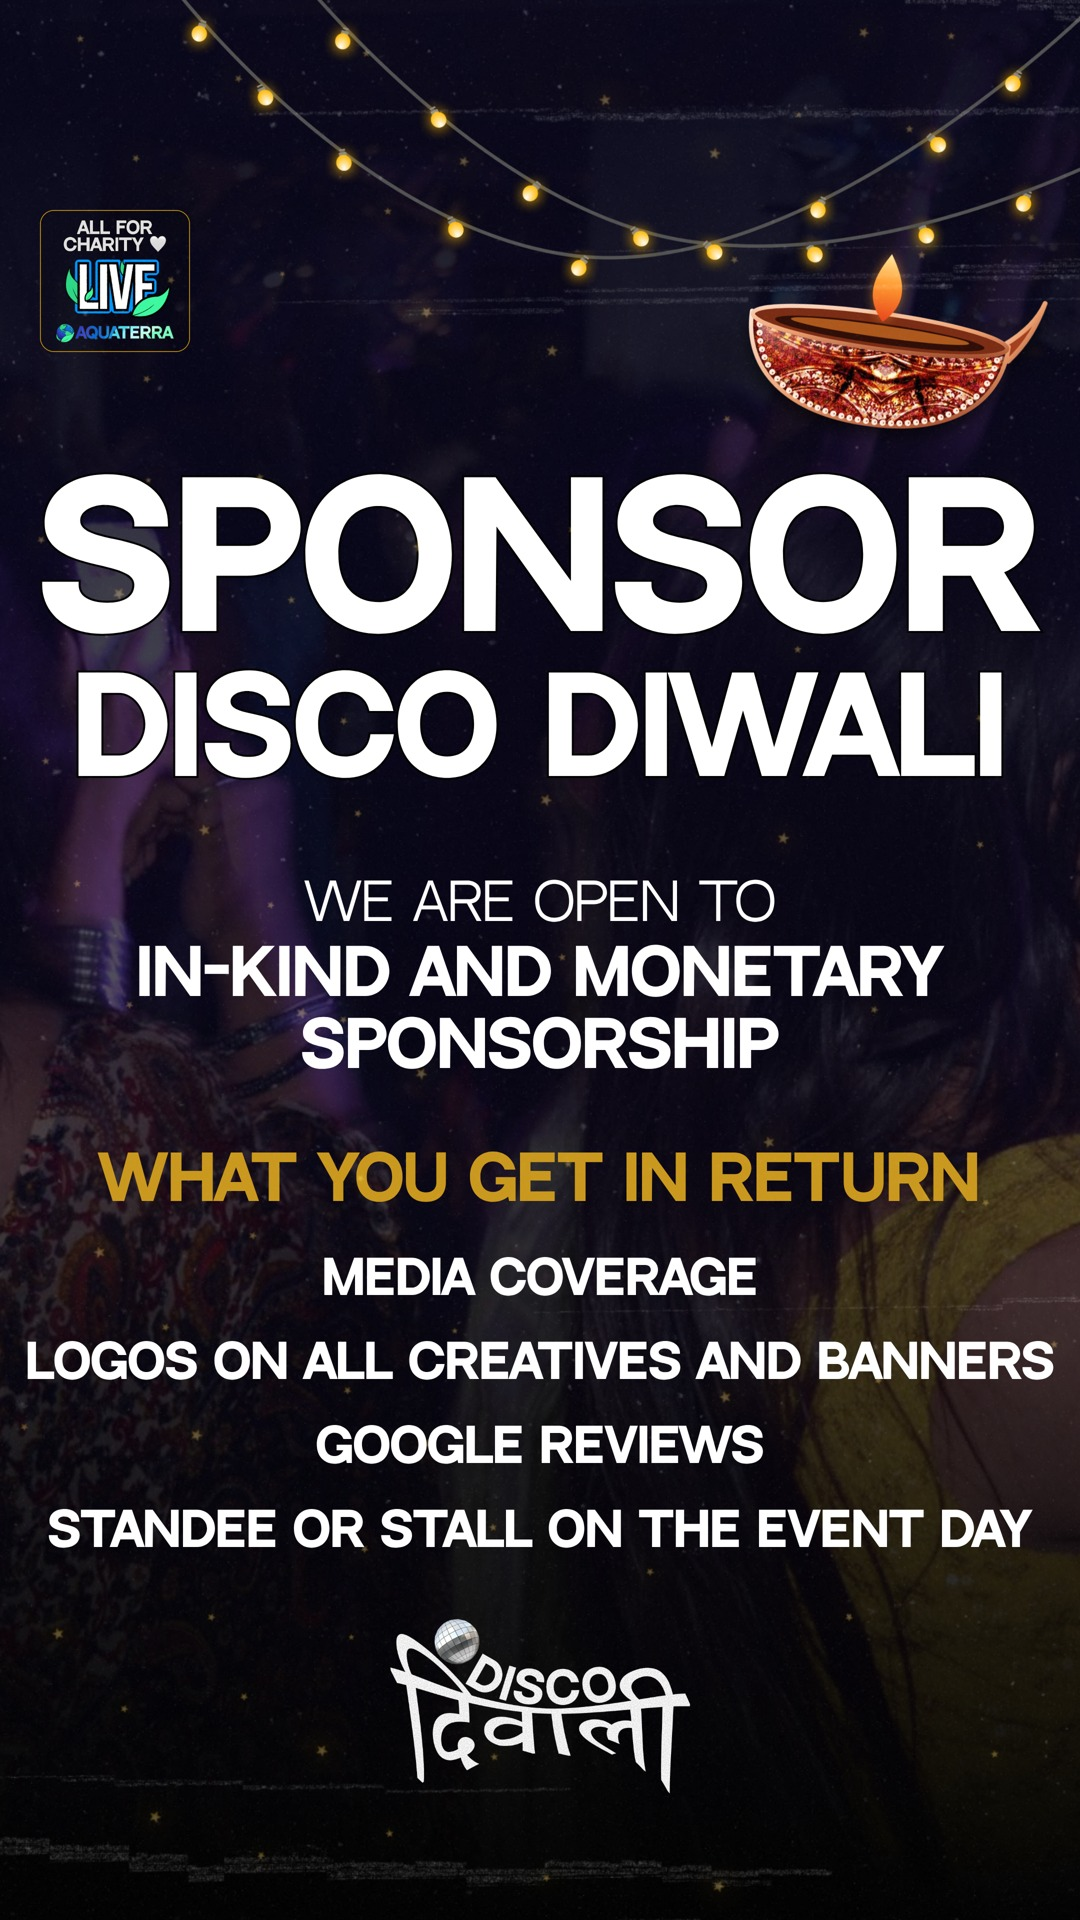
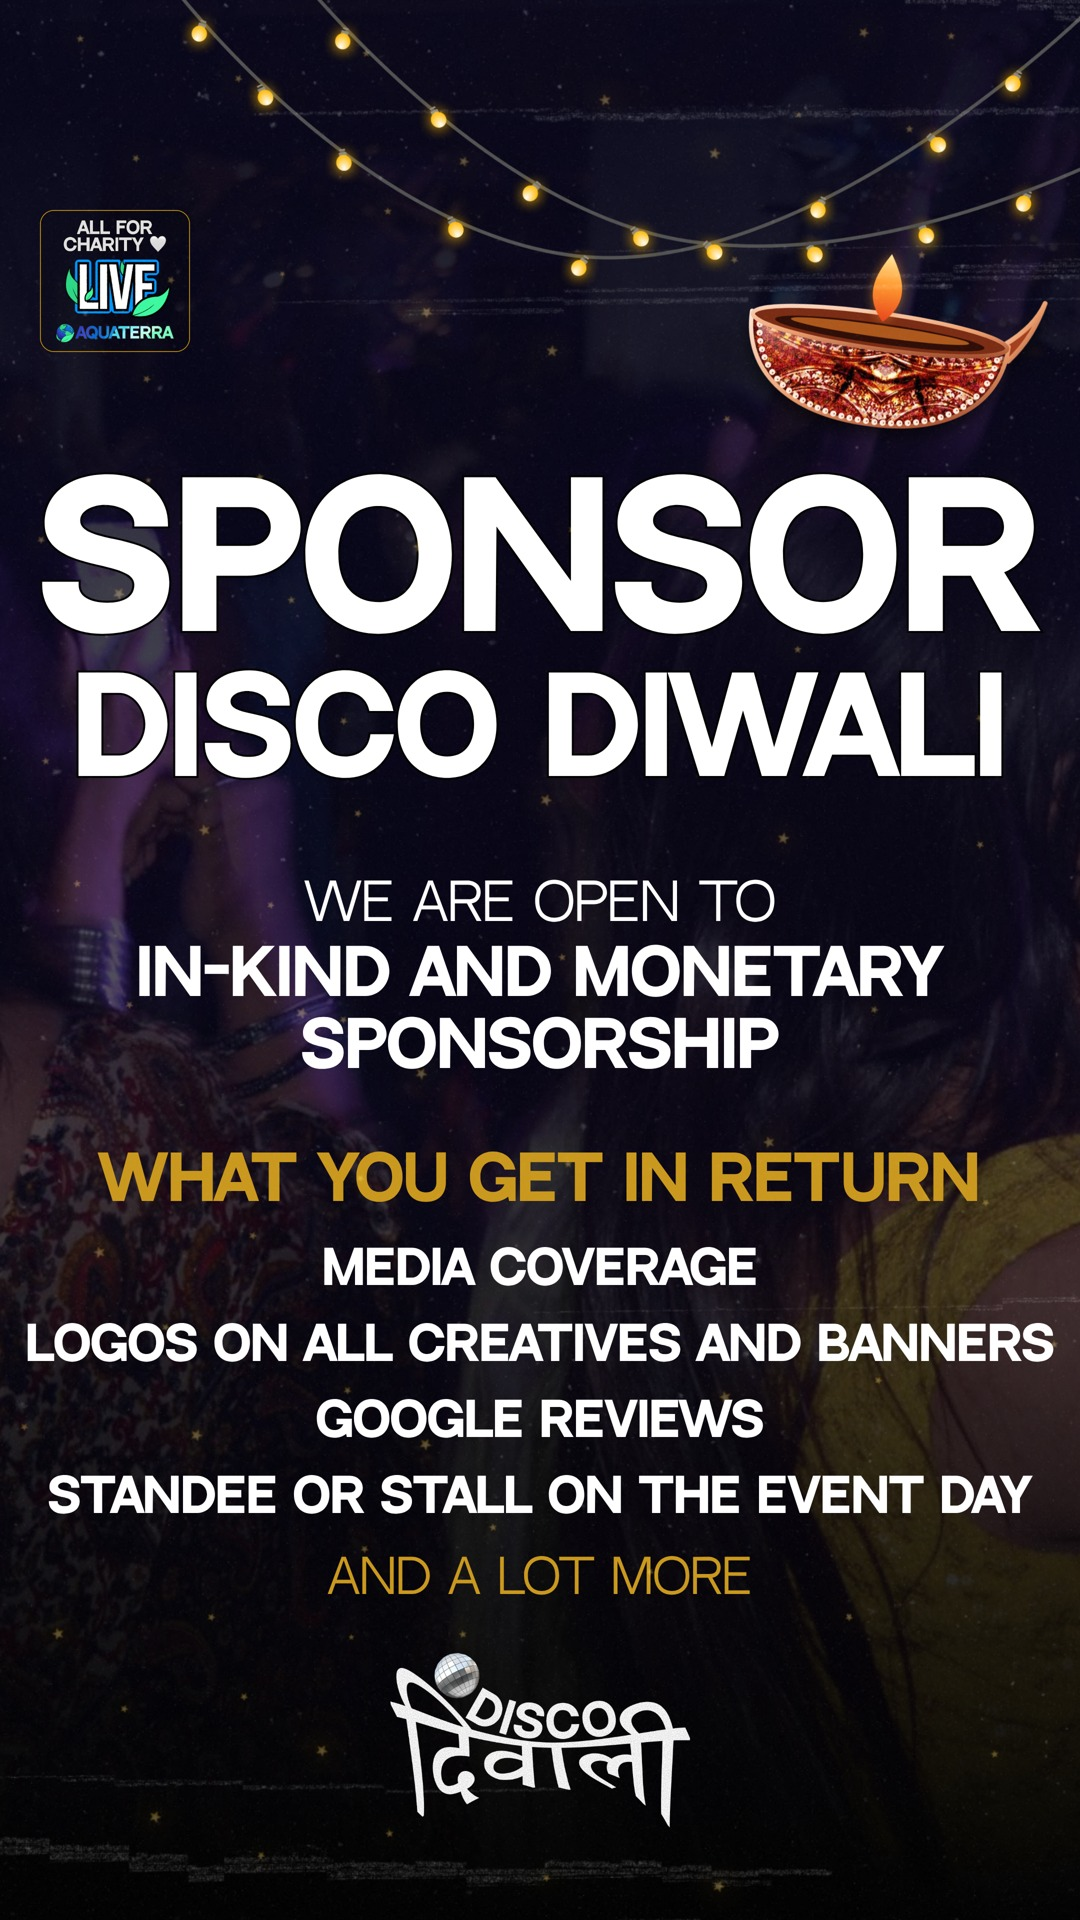
Sponsor invite story: add 'and a lot more' to the deliverables
Claude-Session: https://claude.ai/code/session_011Tdiin6aNXQLggVhcwaFdk

Changed region(s): [[0.0, 0.625, 0.9778, 0.9688]]

diff --git a/scratchpad/dd_sponsor_invite.py b/scratchpad/dd_sponsor_invite.py
@@ -24,8 +24,9 @@ def story():
     line("o3", "sponsorship", 1016, 62, 700, 66, stroke=False)
     line("lab", "What you get in return", 1150, 60, 700, 64, stroke=False, color=dd.GOLD)
     for i, t in enumerate(("Media coverage", "Logos on all creatives and banners", "Google reviews", "Standee or stall on the event day")):
-        line(f"g{i}", t, 1256 + i * 84, 46, 700, 50, stroke=False)
-    vw = 300; t = vw / 1717; vh = round(991 * t); vx = (W - vw) // 2; vy = 1620
+        line(f"g{i}", t, 1246 + i * 76, 46, 700, 50, stroke=False)
+    line("g4", "And a lot more", 1246 + 4 * 76 + 6, 46, 400, 50, stroke=False, color=dd.GOLD)
+    vw = 300; t = vw / 1717; vh = round(991 * t); vx = (W - vw) // 2; vy = 1654
     parts.append(f'<img data-tag="title" src="{dd.uri("title_lockup.png")}" style="position:absolute;left:{round(vx - 265 * t)}px;top:{round(vy - 320 * t)}px;width:{round(2000 * t)}px;z-index:9">'); els.append(("title", vx, vy, vw, vh))
     return "".join(parts), els, vy + vh
 async def main():
